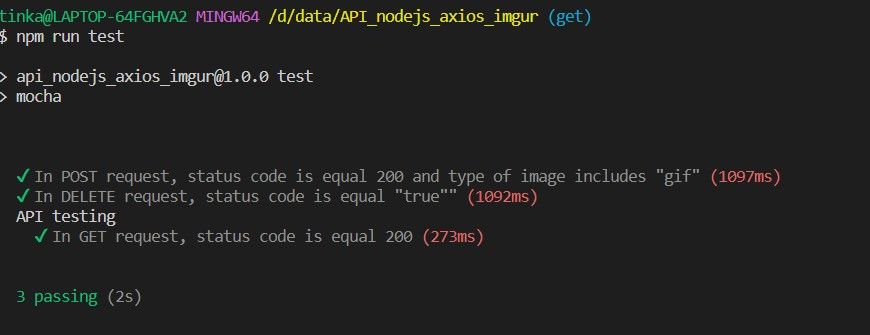
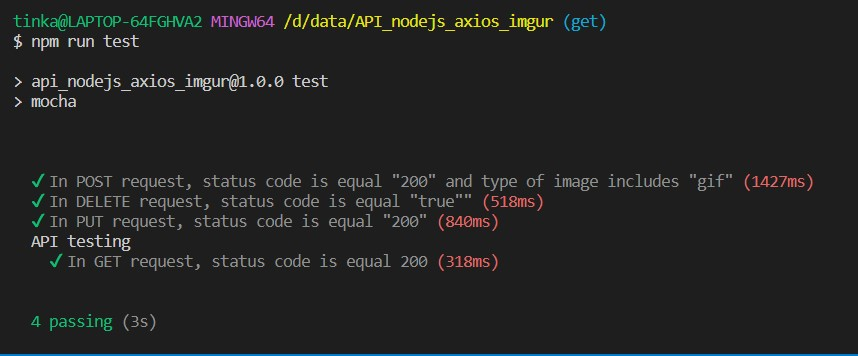
add put request

diff --git a/config/PutConfig.js b/config/PutConfig.js
@@ -1,0 +1,24 @@
+import UrlData from './UrlData.js';
+import { token } from './token.js';
+import FormData from 'form-data';
+let data = new FormData();
+data.append('title', 'My dank meme album');
+data.append('description', 'This album contains a lot of dank memes. Be prepared.');
+
+class PutConfig {
+  get putConfig() {
+    return {
+      method: 'put',
+      maxBodyLength: Infinity,
+      url: `${UrlData.baseUrl}${UrlData.updateImage}`,
+      headers: {
+        Authorization: token,
+        ...data.getHeaders(),
+      },
+
+      data: data,
+    };
+  }
+}
+
+export default new PutConfig();

diff --git a/config/Configs.js b/config/Configs.js
@@ -1,12 +1,13 @@
 import GetConfig from './GetConfig.js';
 import PostConfig from './PostConfig.js';
 import DeleteConfig from './DeleteConfig.js';
-
+import PutConfig from './PutConfig.js';
 class Configs {
   constructor() {
     this.GetConfig = GetConfig;
     this.PostConfig = PostConfig;
     this.DeleteConfig = DeleteConfig;
+    this.PutConfig = PutConfig;
   }
 }
 export default new Configs();

diff --git a/test/app.js b/test/app.js
@@ -24,3 +24,9 @@ describe('API testing', async () => {
       expect(deletedStatus).to.equal(true);
     });
   });
+it('In PUT request, status code is equal "200"', async () => {
+  await axios(Configs.PutConfig.putConfig).then((response) => {
+    let statusResult = response.data.status;
+    expect(statusResult).to.equal(200);
+  });
+});

diff --git a/config/UrlData.js b/config/UrlData.js
@@ -11,6 +11,9 @@ class UrlData {
   get deleteImageHash() {
     return '3/image/QLMArWV';
   }
+  get updateImage() {
+    return '3/image/hOVQWzM';
+  }
 }
 
 export default new UrlData();
